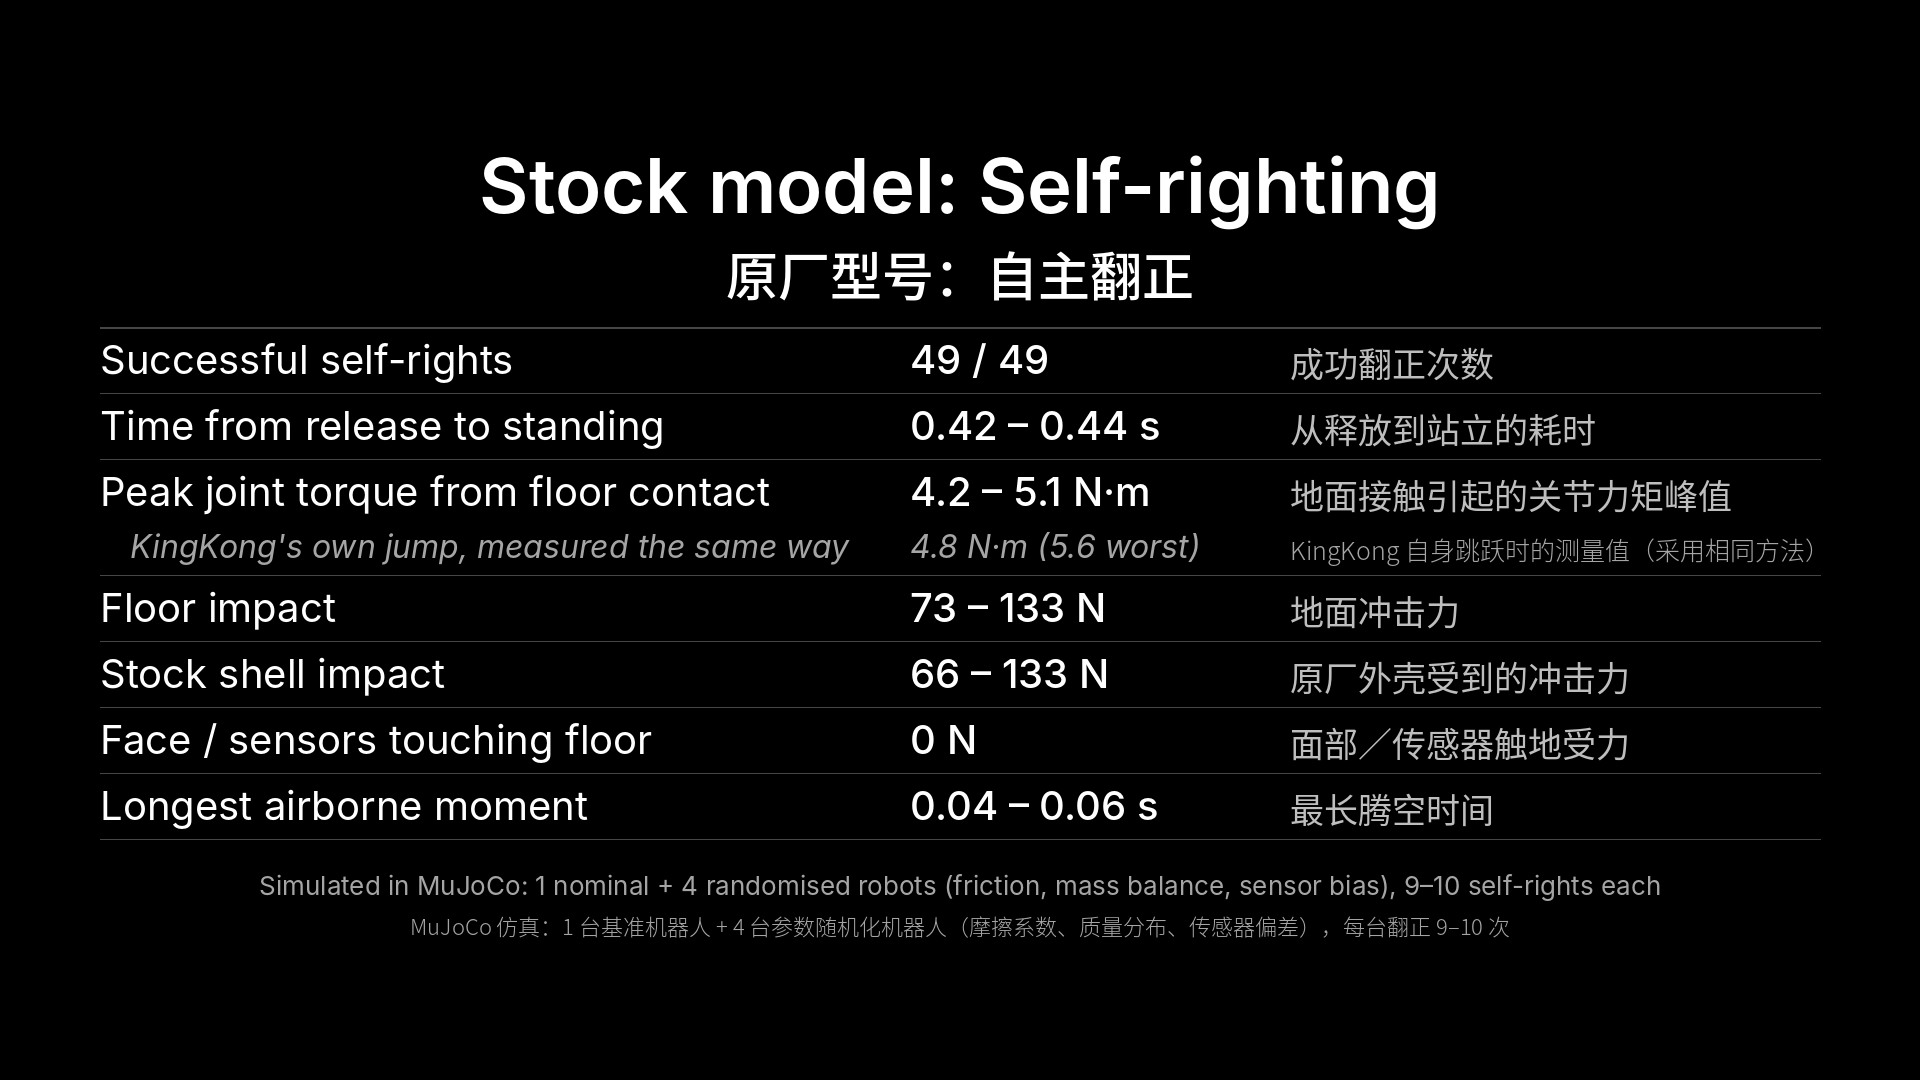
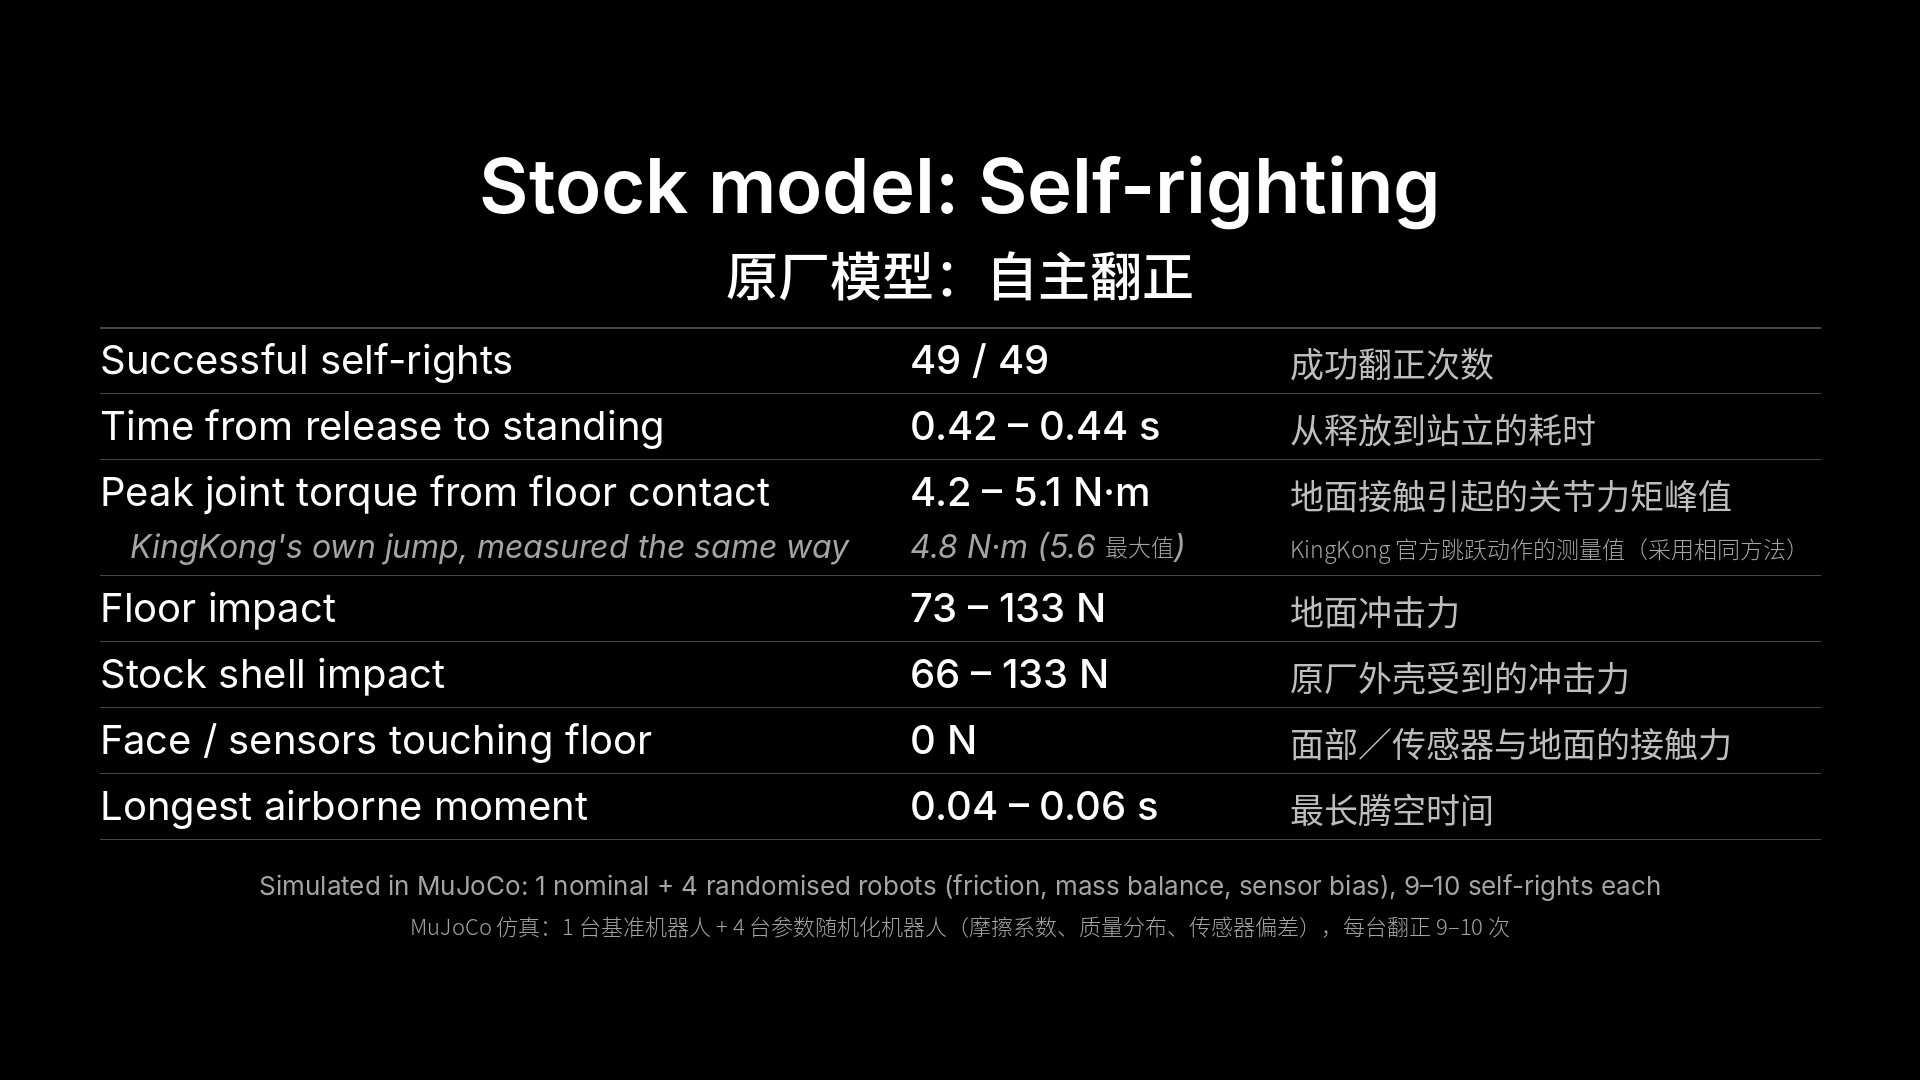
Footage slides and caption: reviewed Chinese wording
面部／传感器与地面的接触力; the statement slide's CAD paragraph; 强烈冲击 in the
stock-shell warning; 原厂模型：自主翻正 on the stock stats slide; the KingKong note
as 官方跳跃动作的测量值, its value 4.8 N·m (5.6 最大值). Values may now carry
Chinese (drawn in the CJK face); the Chinese note line is a size smaller to fit.

Claude-Session: https://claude.ai/code/session_018e6UqHzaryVWYHuwL5wCvh

diff --git a/studies/footage/make_slide.py b/studies/footage/make_slide.py
@@ -127,9 +127,25 @@ img = Image.new("RGB", (W, H), (0, 0, 0))
 dr = ImageDraw.Draw(img)
 f_title, f_title_zh = inter("SemiBold", 76), cjk("Medium", 52)
 f_label, f_value, f_label_zh = inter("Regular", 40), inter("Medium", 40), cjk("Regular", 34)
-f_note, f_note_zh = inter("Italic", 32), cjk("Light", 25)
+f_note, f_note_zh = inter("Italic", 32), cjk("Light", 23)
 f_foot, f_foot_zh = inter("Regular", 26), cjk("Light", 22)
 f_schema, f_schema_zh = inter("Regular", 34), cjk("Regular", 28)
+
+
+def mixed(x, y, text, font, font_zh, fill):
+    """Draw `text` from x, its CJK runs in `font_zh` (Inter has no CJK glyphs)."""
+    runs, cur, cjk_run = [], "", None
+    for ch in text:
+        c = "\u3000" <= ch <= "\u9fff" or "\uff00" <= ch <= "\uffef"
+        if cjk_run is not None and c != cjk_run:
+            runs.append((cur, cjk_run))
+            cur = ""
+        cur, cjk_run = cur + ch, c
+    runs.append((cur, cjk_run))
+    for t, c in runs:
+        f = font_zh if c else font
+        dr.text((x, y + (round(f.size * 0.08) if c else 0)), t, font=f, fill=fill)
+        x += dr.textlength(t, font=f)
 
 
 def centred(y, text, font, fill):
@@ -169,9 +185,9 @@ for i, (r, rh) in enumerate(zip(rows, row_hs)):
         # The Chinese note starts at the column edge: its line is the longest there.
         dr.text((x_zh, top + (h(4) if note else h(2))), r["zh"],
                 font=f_note_zh if note else f_label_zh, fill=GREY if note else DIM)
-    # The value sits level with the English line.
-    dr.text((x_value, top), r["value"], font=f_note if note else f_value,
-            fill=GREY if note else WHITE)
+    # The value sits level with the English line; any Chinese in it in the CJK face.
+    mixed(x_value, top, r["value"], f_note if note else f_value,
+          f_note_zh if note else f_label_zh, GREY if note else WHITE)
     y += rh
     nxt_note = i + 1 < len(rows) and rows[i + 1].get("note")
     if not note and not nxt_note:
